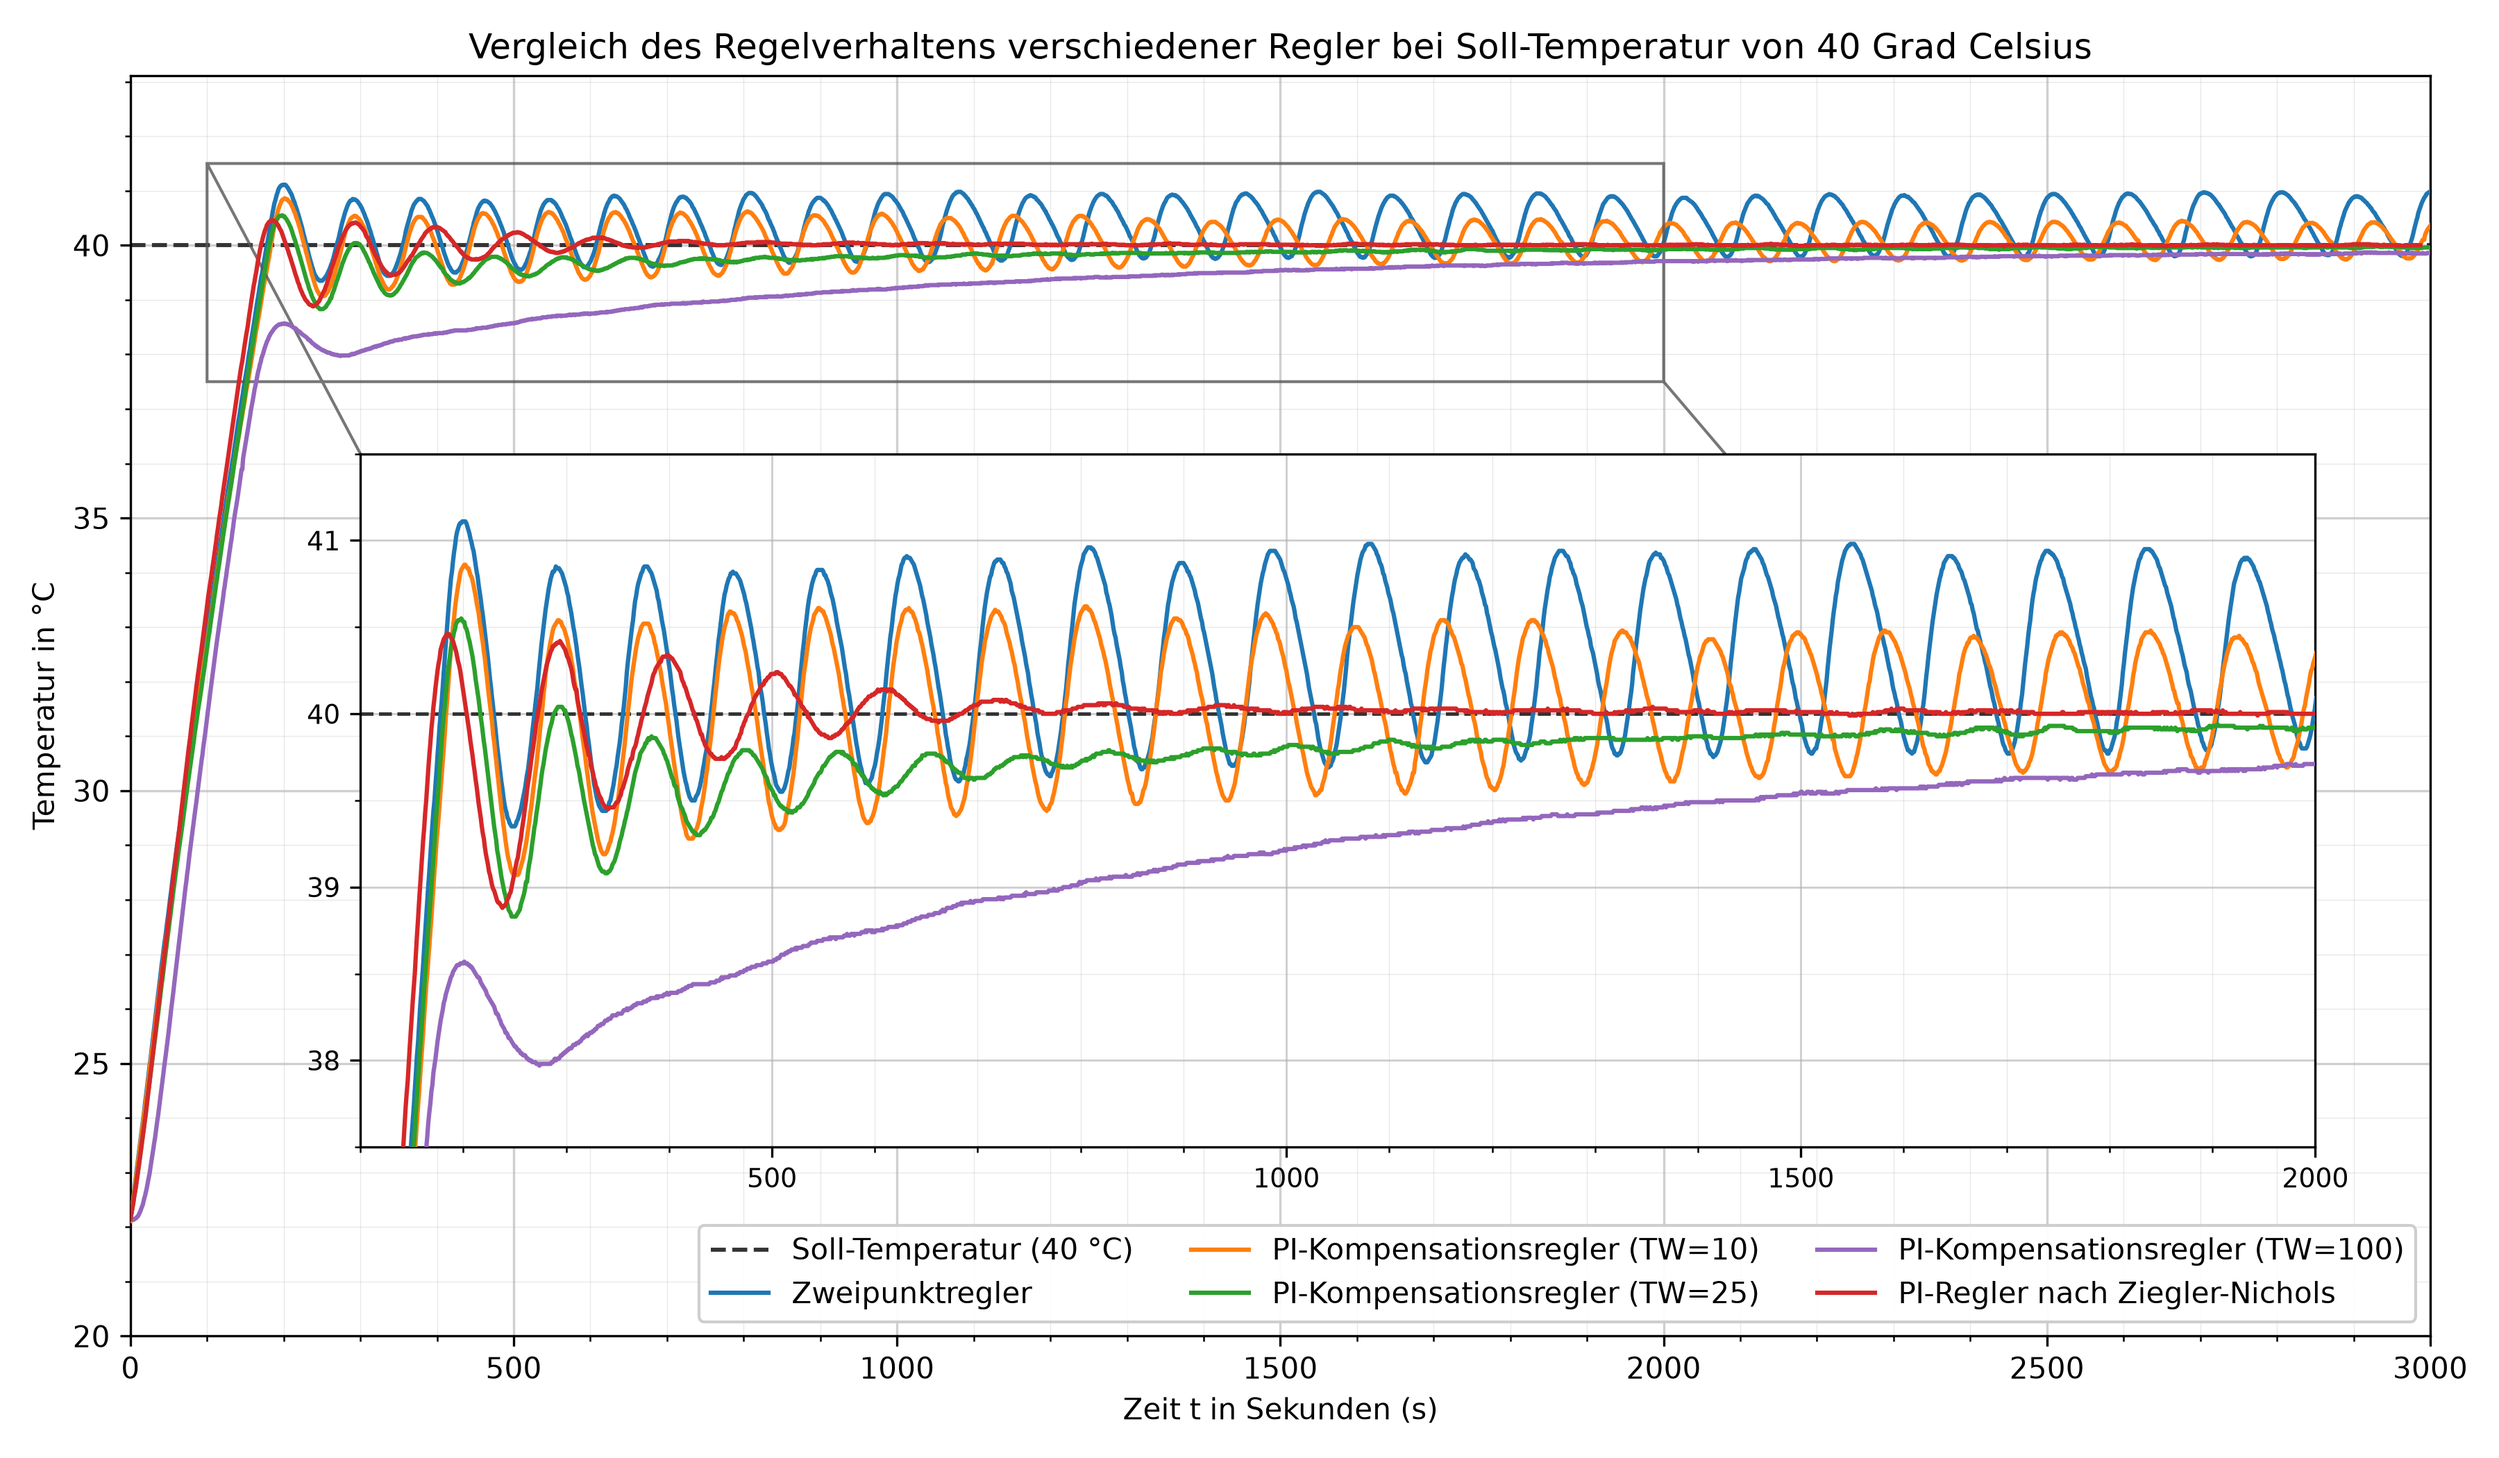
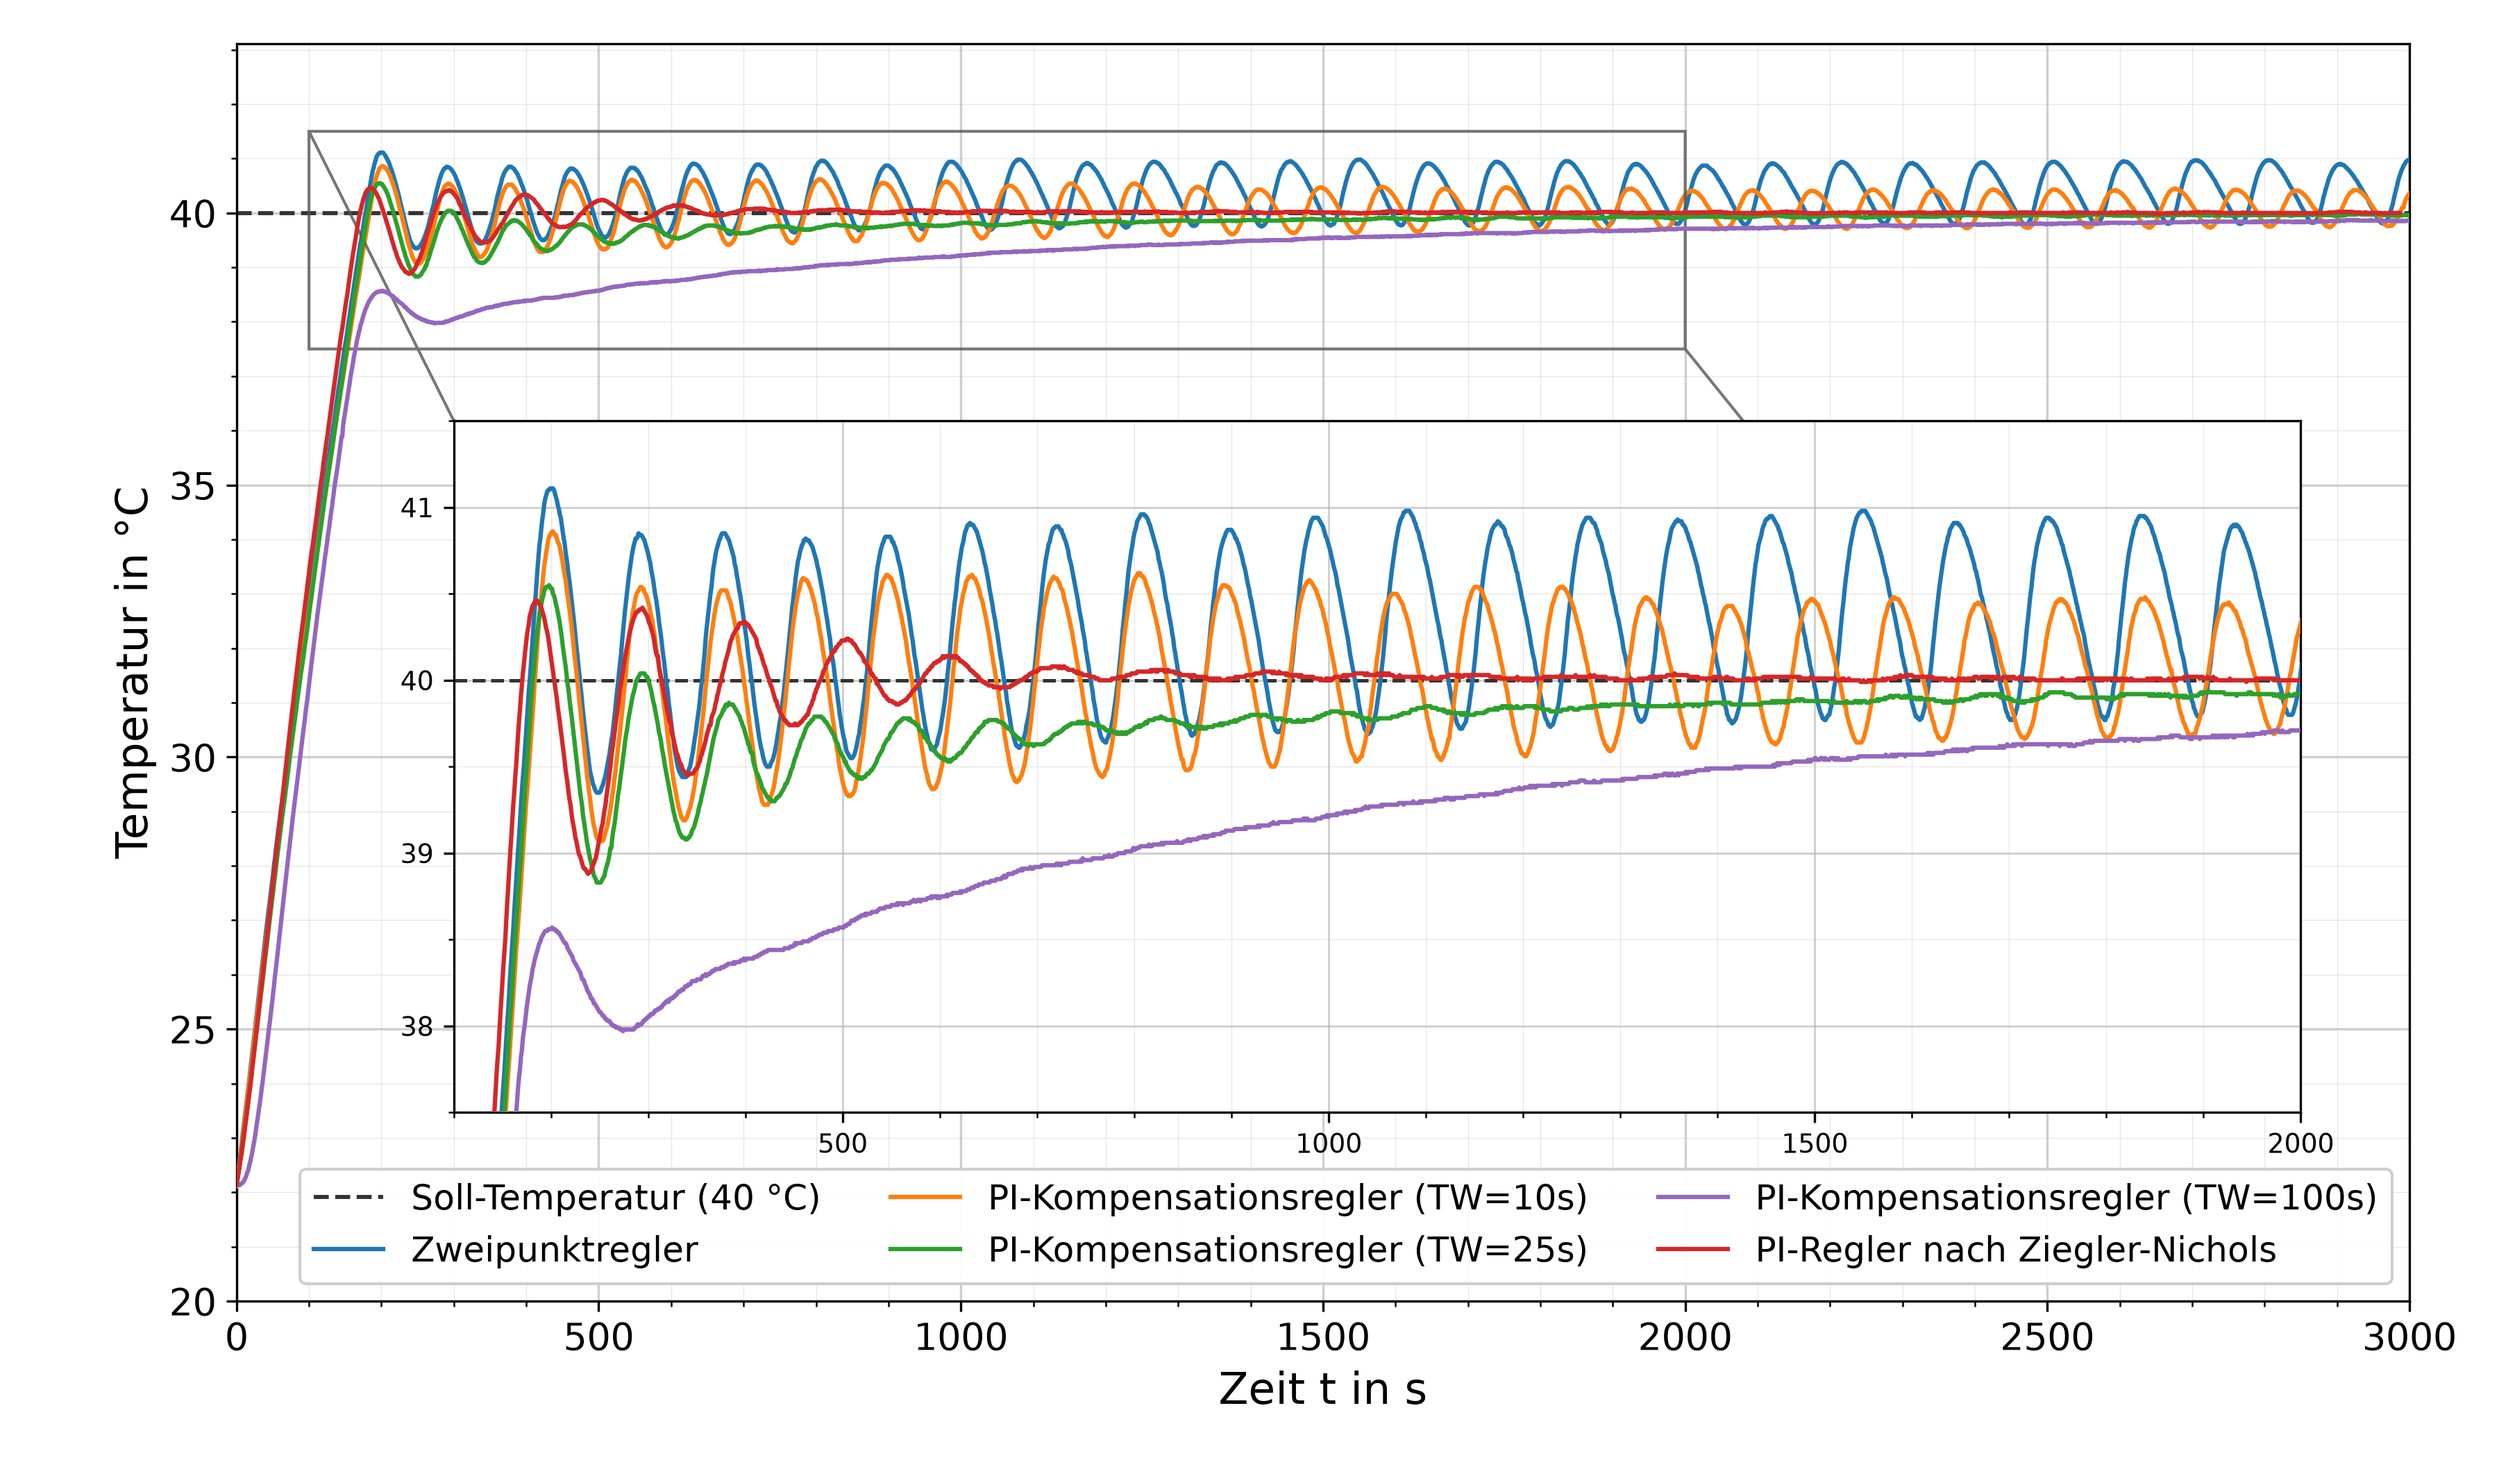
Better diagramms

diff --git a/doc/scripts/control_response_chart_comparison_40.py b/doc/scripts/control_response_chart_comparison_40.py
@@ -13,17 +13,17 @@ DATEIEN = [
     },
     {
         "pfad": r"..\..\data\control_response_pi_compensation_tw10_target40.log",
-        "label": "PI-Kompensationsregler (TW=10)",
+        "label": "PI-Kompensationsregler (TW=10s)",
         "farbe": "#ff7f0e",  # Leuchtendes Orange
     },
     {
         "pfad": r"..\..\data\control_response_pi_compensation_tw25_target40.log",
-        "label": "PI-Kompensationsregler (TW=25)",
+        "label": "PI-Kompensationsregler (TW=25s)",
         "farbe": "#2ca02c",  # Kräftiges Grün
     },
     {
         "pfad": r"..\..\data\control_response_pi_compensation_tw100_target40.log",
-        "label": "PI-Kompensationsregler (TW=100)",
+        "label": "PI-Kompensationsregler (TW=100s)",
         "farbe": "#9467bd",  # Violett
     },
     {
@@ -216,7 +216,7 @@ def erstelle_diagramm(
             max_gefundene_zeit = max(max_gefundene_zeit, max(d["zeiten"]))
         alle_ist_werte.extend(d["ist"])
 
-    ax1.set_xlabel("Zeit t in Sekunden (s)")
+    ax1.set_xlabel("Zeit t in s")
     ax1.set_ylabel("Temperatur in °C")
     ax1.tick_params(axis="both", which="both")
 
@@ -254,7 +254,7 @@ def erstelle_diagramm(
 
     # Legende unten rechts platzieren, damit sie nicht mit dem Inset-Plot kollidiert
     ax1.legend(loc="lower right", framealpha=0.95, ncol=3)
-    plt.title("Vergleich des Regelverhaltens verschiedener Regler bei Soll-Temperatur von 40 Grad Celsius")
+    #plt.title("Vergleich des Regelverhaltens verschiedener Regler bei Soll-Temperatur von 40 Grad Celsius")
     plt.tight_layout()
     plt.savefig(r"..\figures\control_response_chart_comparison_40.png", dpi=300)
     plt.show()
@@ -272,7 +272,15 @@ if __name__ == "__main__":
             })
 
     angeglichene_daten = gleiche_starttemperatur_an(geladene_daten, max_zeit=MAX_ZEIT)
-
+    
+    plt.rcParams.update({
+        "font.size": 14,          # Basis-Schriftgröße
+        "axes.labelsize": 15,     # Achsenbeschriftungen (Zeit, Temperatur)
+        "xtick.labelsize": 13,    # Zahlen an der x-Achse
+        "ytick.labelsize": 13,    # Zahlen an der y-Achse
+        "legend.fontsize": 12,    # Legende
+    })
+    
     erstelle_diagramm(
         angeglichene_daten,
         max_zeit=MAX_ZEIT,

diff --git a/doc/scripts/control_response_chart_comparison_70.py b/doc/scripts/control_response_chart_comparison_70.py
@@ -13,17 +13,17 @@ DATEIEN = [
     },
     {
         "pfad": r"..\..\data\control_response_pi_compensation_tw10_target70.log",
-        "label": "PI-Kompensationsregler (TW=10)",
+        "label": "PI-Kompensationsregler (TW=10s)",
         "farbe": "#ff7f0e",  # Leuchtendes Orange
     },
     {
         "pfad": r"..\..\data\control_response_pi_compensation_tw25_target70.log",
-        "label": "PI-Kompensationsregler (TW=25)",
+        "label": "PI-Kompensationsregler (TW=25s)",
         "farbe": "#2ca02c",  # Kräftiges Grün
     },
     {
         "pfad": r"..\..\data\control_response_pi_compensation_tw100_target70.log",
-        "label": "PI-Kompensationsregler (TW=100)",
+        "label": "PI-Kompensationsregler (TW=100s)",
         "farbe": "#9467bd",  # Violett
     },
     {
@@ -216,7 +216,7 @@ def erstelle_diagramm(
             max_gefundene_zeit = max(max_gefundene_zeit, max(d["zeiten"]))
         alle_ist_werte.extend(d["ist"])
 
-    ax1.set_xlabel("Zeit t in Sekunden (s)")
+    ax1.set_xlabel("Zeit t in s")
     ax1.set_ylabel("Temperatur in °C")
     ax1.tick_params(axis="both", which="both")
 
@@ -254,7 +254,7 @@ def erstelle_diagramm(
 
     # Legende unten rechts platzieren, damit sie nicht mit dem Inset-Plot kollidiert
     ax1.legend(loc="lower right", framealpha=0.95, ncol=3)
-    plt.title("Vergleich des Regelverhaltens verschiedener Regler bei Soll-Temperatur von 70 Grad Celsius")
+    #plt.title("Vergleich des Regelverhaltens verschiedener Regler bei Soll-Temperatur von 70 Grad Celsius")
     plt.tight_layout()
     plt.savefig(r"..\figures\control_response_chart_comparison_70.png", dpi=300)
     plt.show()
@@ -272,7 +272,15 @@ if __name__ == "__main__":
             })
 
     angeglichene_daten = gleiche_starttemperatur_an(geladene_daten, max_zeit=MAX_ZEIT)
-
+    
+    plt.rcParams.update({
+        "font.size": 14,          # Basis-Schriftgröße
+        "axes.labelsize": 15,     # Achsenbeschriftungen (Zeit, Temperatur)
+        "xtick.labelsize": 13,    # Zahlen an der x-Achse
+        "ytick.labelsize": 13,    # Zahlen an der y-Achse
+        "legend.fontsize": 12,    # Legende
+    })
+    
     erstelle_diagramm(
         angeglichene_daten,
         max_zeit=MAX_ZEIT,

diff --git a/doc/scripts/control_response_chart_pi_zn_70.py b/doc/scripts/control_response_chart_pi_zn_70.py
@@ -89,7 +89,7 @@ def erstelle_diagramm(
         zeiten, ist_temp, color="tab:red", linewidth=2, zorder=2, label="Ist-Temperatur (°C)"
     )
 
-    ax1.set_xlabel("Zeit t in Sekunden (s)")
+    ax1.set_xlabel("Zeit t in s")
     ax1.set_ylabel("Temperatur in °C", color="tab:red")
     ax1.tick_params(axis="y", which="both", labelcolor="tab:red")
     ax1.tick_params(axis="x", which="both")
@@ -181,10 +181,10 @@ def erstelle_diagramm(
     ax1.legend(linien, labels, loc="lower right", framealpha=0.95, ncol=3)
 
     # Titel explizit auf ax1 setzen statt plt.title()
-    ax1.set_title(
-        "Regelverhalten des PI-Reglers nach Ziegler-Nichols bei einer Soll-Temperatur von 70 Grad Celsius mit Heizleistung",
-        pad=12
-    )
+    #ax1.set_title(
+    #    "Regelverhalten des PI-Reglers nach Ziegler-Nichols bei einer Soll-Temperatur von 70 Grad Celsius mit Heizleistung",
+    #    pad=12
+    #)
     plt.tight_layout()
     plt.savefig(r"..\figures\control_response_chart_pi_zn_70.png", dpi=300)
     plt.show()
@@ -192,6 +192,15 @@ def erstelle_diagramm(
 
 if __name__ == "__main__":
     t, ist, soll, pwm = lese_logdatei(DATEIPFAD, max_zeit=MAX_ZEIT)
+    
+    plt.rcParams.update({
+        "font.size": 14,          # Basis-Schriftgröße
+        "axes.labelsize": 15,     # Achsenbeschriftungen (Zeit, Temperatur)
+        "xtick.labelsize": 13,    # Zahlen an der x-Achse
+        "ytick.labelsize": 13,    # Zahlen an der y-Achse
+        "legend.fontsize": 12,    # Legende
+}   )
+    
     erstelle_diagramm(
         t, ist, soll, pwm,
         zeige_leistung=ZEIGE_HEIZLEISTUNG,
